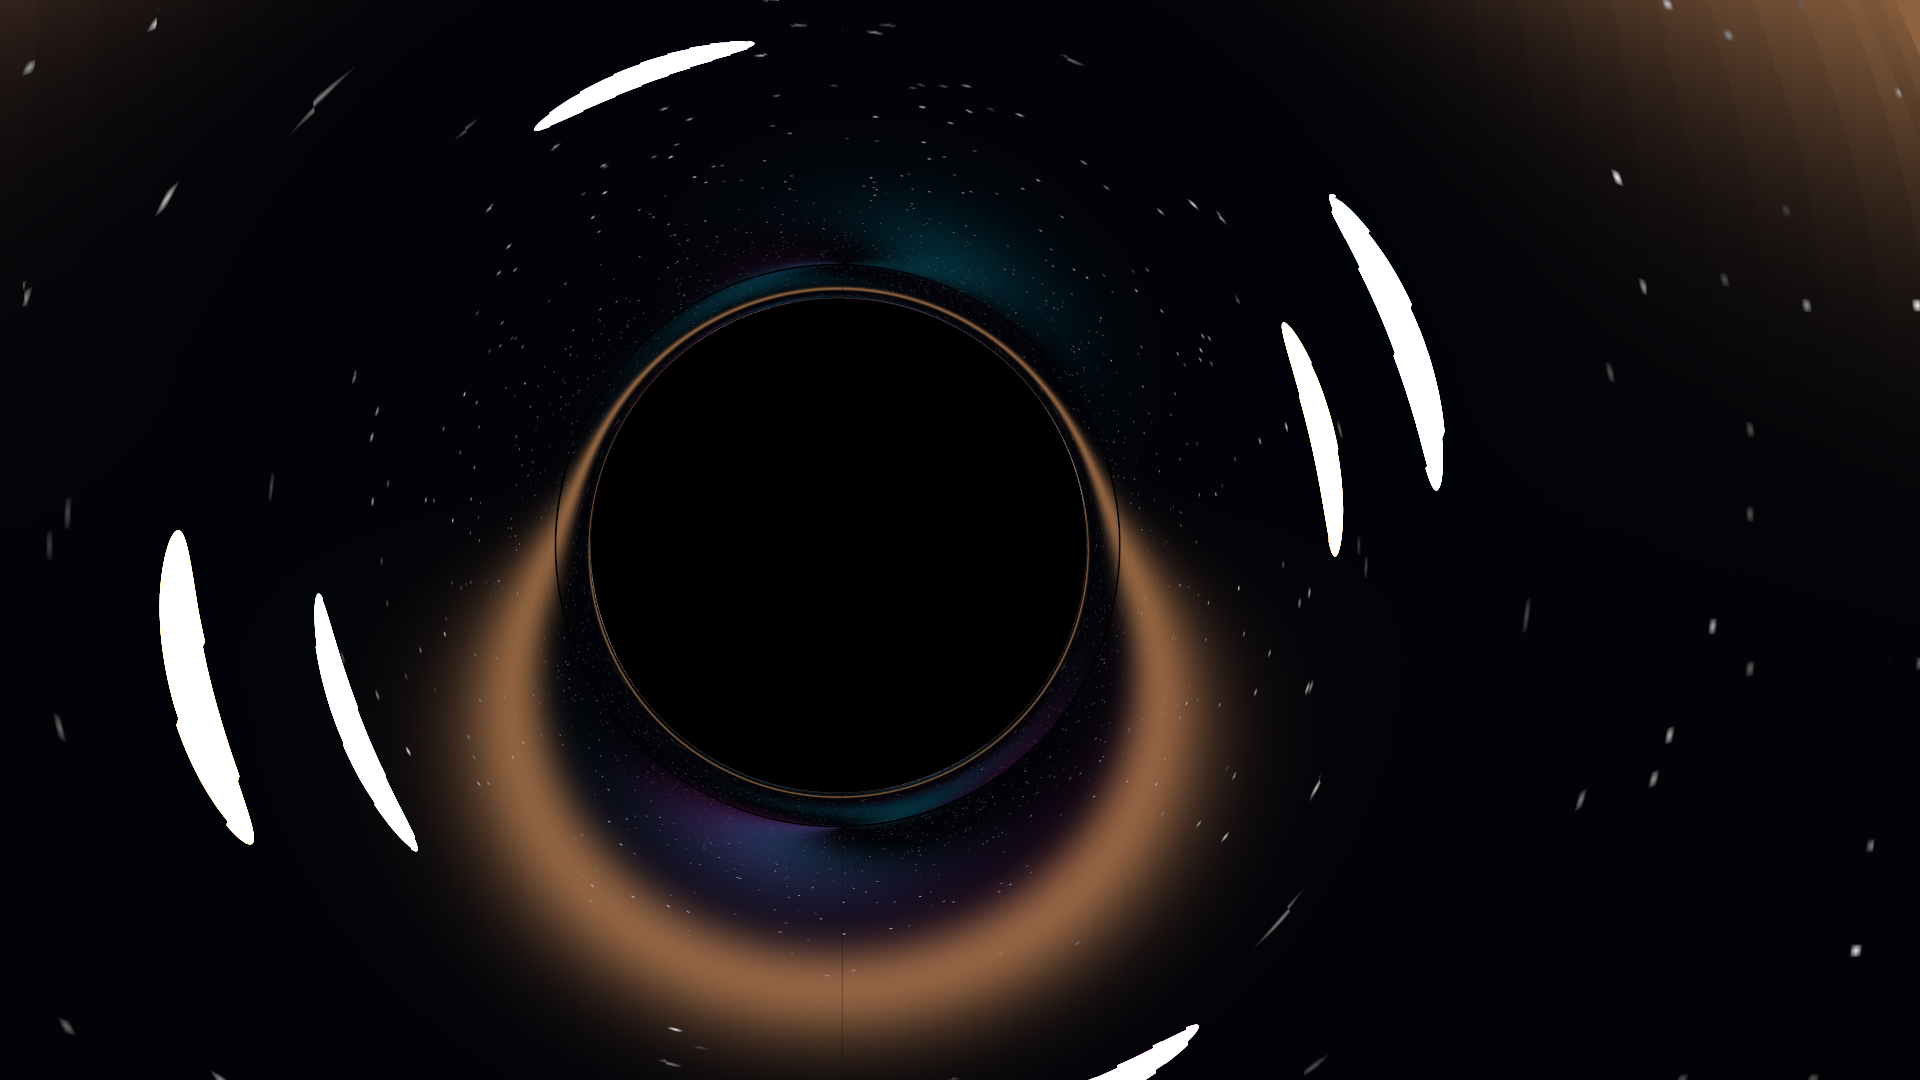
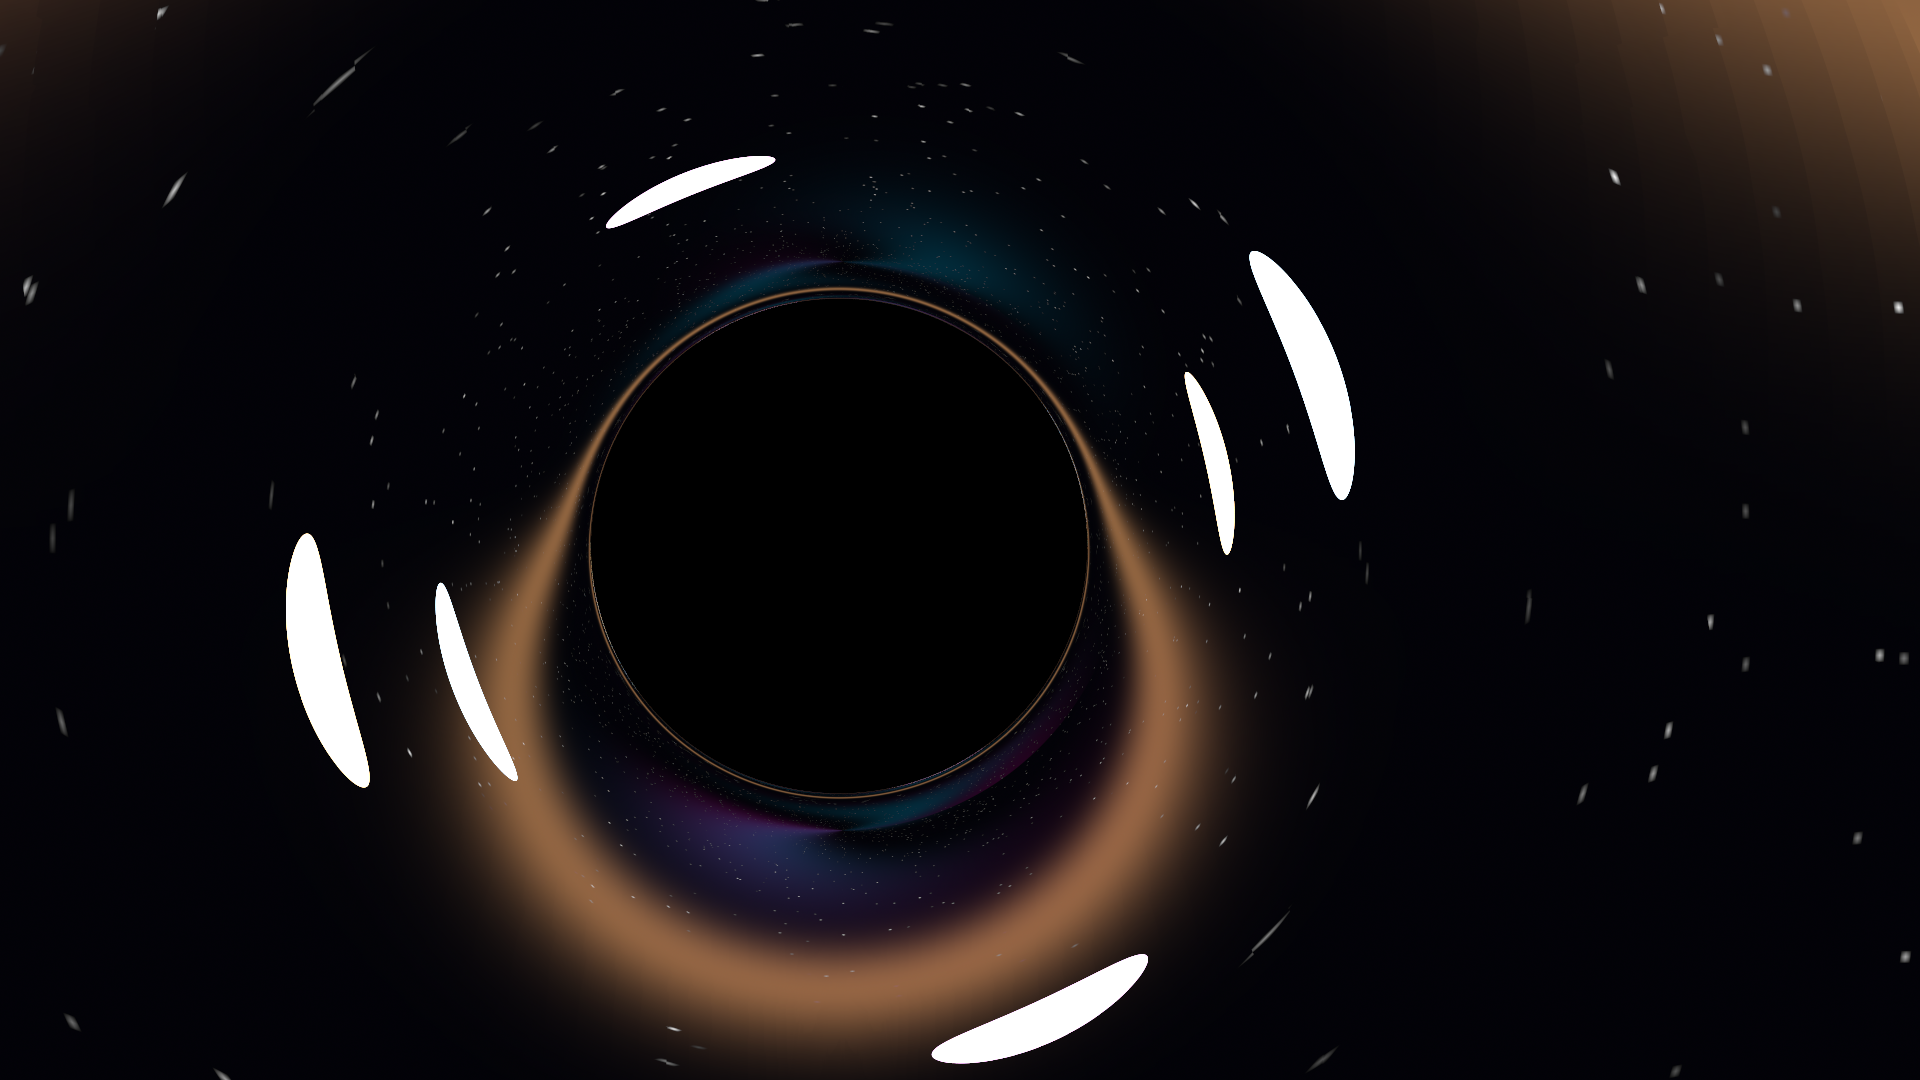
fix(#1061): GR continuation starts where the exit line leaves r_max, not at the RK45 overshoot
The escaping DP45 step (h up to 50 M) lands far past r_max. Since #896 the
continuation ray started at that overshoot point, so geometry between r_max
and it was skipped: lensed sphere images rendered as bitten fragments.
exitPointWorld now back-projects along the exit direction to the r_max
sphere. Regression test: lensed sphere images are few and hole-free (fails
on the pre-fix build with 4 fragments). README tile spheres moved outside the
GR region (in-region geometry is invisible, #1063) and re-rendered.

diff --git a/tests/test_issue1061_gr_lensed_arc_connected.py b/tests/test_issue1061_gr_lensed_arc_connected.py
@@ -1,0 +1,58 @@
+"""#1061: a lensed emissive sphere renders as whole arcs, not bitten fragments.
+
+The escaping RK45 step (h up to 50 M) lands far past r_max; since #896 the
+continuation ray started there and skipped any geometry between r_max and the
+overshoot, cutting black bites and bands into the lensed images. The sphere
+sits outside the GR region, so every image of it must be a hole-free blob and
+there must be only a few of them (primary + secondary), not a scatter of
+fragments.
+"""
+
+from __future__ import annotations
+
+import numpy as np
+import pytest
+from scipy import ndimage
+
+from runtime_setup import configure_test_imports
+
+configure_test_imports()
+
+try:
+    import astroray  # noqa: E402
+    AVAILABLE = True
+except ImportError:
+    AVAILABLE = False
+
+pytestmark = pytest.mark.skipif(not AVAILABLE, reason="astroray not built")
+
+
+def test_lensed_sphere_images_are_whole():
+    W, H = 480, 270
+    r = astroray.Renderer()
+    r.set_integrator("path_tracer")
+    r.set_background_color([0.0, 0.0, 0.0])
+    r.set_seed(17)
+    r.set_adaptive_sampling(False)
+    # Behind the hole, fully outside r_max = 1.05 * 5.5 (centre at 7.2).
+    m = r.create_material("light", [1.0, 1.0, 1.0], {"intensity": 4.0})
+    r.add_sphere([1.6, 0.6, -7.0], 0.45, m)
+    r.setup_camera([0.0, 0.0, 12.0], [1.0, 0.05, 0.0], [0.0, 1.0, 0.0],
+                   42.0, W / H, 0.0, 12.0, W, H)
+    r.add_black_hole([0.0, 0.0, 0.0], 4.0e6, 5.5, {
+        "spin": 0.0, "disk_outer": 0.0, "accretion_rate": 0.0,
+        "inclination": 0.0, "enable_adaf": False, "r_obs_M": 20.0})
+    lum = np.asarray(r.render(4, 5, None, False), dtype=np.float32).mean(2)
+
+    mask = lum > 0.5
+    labels, n = ndimage.label(mask)
+    sizes = ndimage.sum(mask, labels, range(1, n + 1))
+    images = [i + 1 for i, s in enumerate(sizes) if s >= 20]
+    assert 1 <= len(images) <= 3, f"{len(images)} images (sizes {sorted(sizes)[::-1][:10]})"
+    for lab in images:
+        blob = labels == lab
+        holes = int((ndimage.binary_fill_holes(blob) & ~blob).sum())
+        assert holes == 0, f"image {lab} ({int(blob.sum())} px) has {holes} hole px"
+    # Fragments: almost all lit pixels belong to the main images.
+    lit = int(mask.sum())
+    assert sum(sizes[i - 1] for i in images) >= 0.97 * lit

diff --git a/scripts/diagnostics/render_readme_gallery.py b/scripts/diagnostics/render_readme_gallery.py
@@ -500,14 +500,17 @@ def tile_black_hole_lensing(astroray_module, *, spp: int = 128,
         r.load_environment_map(str(sky), 1.0)
 
         # Emissive spheres behind the hole at varied offsets — lensing
-        # doubles/stretches them into arcs near the photon ring.
+        # doubles/stretches them into arcs near the photon ring. They must
+        # sit outside the GR region (r_max = 1.05 x influence 8.0): the
+        # geodesic march does not intersect scene geometry (#1061).
         for pos, col, inten, rad in [
             ([1.6, 0.6, -7.0], [0.55, 0.8, 1.0], 3.6, 0.45),
             ([-2.2, -0.5, -9.0], [1.0, 0.62, 0.3], 4.2, 0.55),
             ([0.6, -1.4, -6.0], [0.9, 0.5, 0.9], 3.2, 0.35),
         ]:
+            k = max(1.0, 10.0 / float(np.linalg.norm(pos)))
             m = r.create_material("light", col, {"intensity": inten})
-            r.add_sphere(pos, rad, m)
+            r.add_sphere([k * c for c in pos], k * rad, m)
 
         dist = 12.0
         W, H = (640, 360) if preview else (1920, 1080)

diff --git a/include/astroray/black_hole.h b/include/astroray/black_hole.h
@@ -262,6 +262,17 @@ private:
         out = position + Vec3(float(k * st * std::cos(s.phi)),
                               float(k * std::cos(s.theta)),
                               float(k * st * std::sin(s.phi)));
+        // #1061: the escaping RK45 step (h up to 50 M) lands far past r_max, so
+        // a ray started at s.r skipped scene geometry between r_max and s.r.
+        // Back-project along the exit direction to where that straight line
+        // leaves the r_max sphere (its closest point if it misses).
+        const Vec3 d = sanitizedExitDirection(ir);
+        const Vec3 oc = out - position;
+        const double R = r_obs_M * 1.05 / worldToGR;
+        const double b = double(oc.dot(d));
+        const double disc = b * b - (double(oc.length2()) - R * R);
+        const double t = disc > 0.0 ? b - std::sqrt(disc) : b;  // distance back
+        if (t > 0.0) out = out - d * float(t);
         return true;
     }
 
